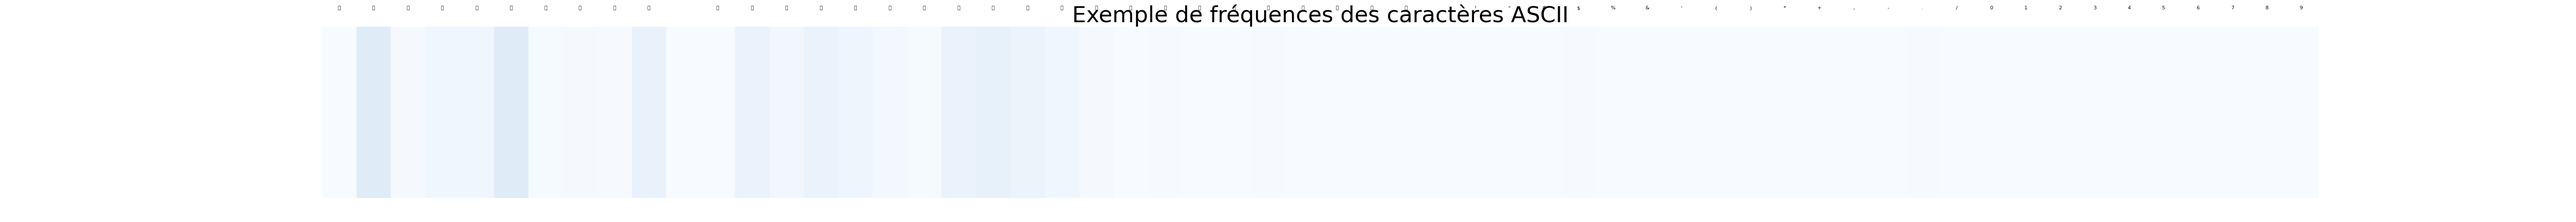
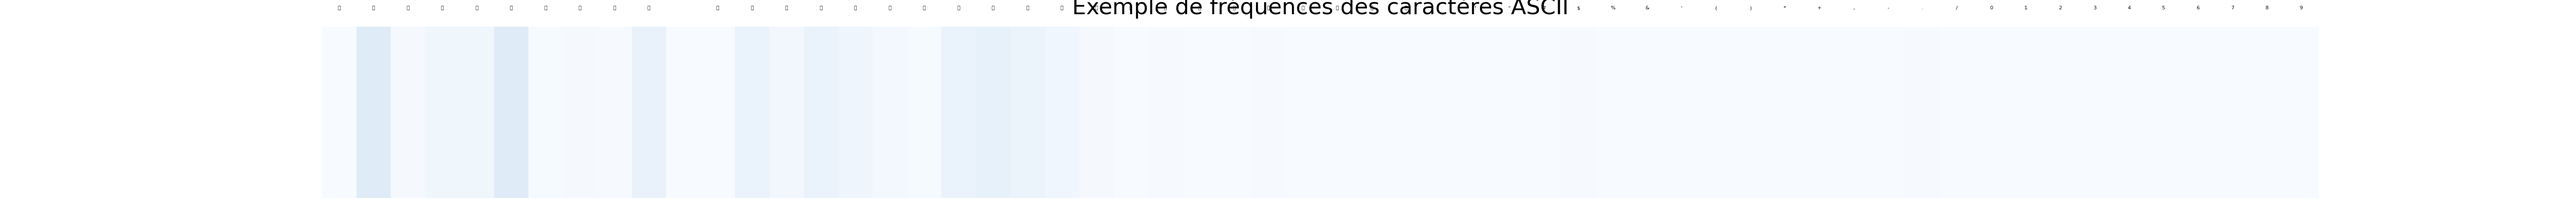
lmk

Changed region(s): [[0.4057, 0.0, 0.6241, 0.12]]

diff --git a/visualization/matrix_visualization/matrix_visualization.py b/visualization/matrix_visualization/matrix_visualization.py
@@ -3,18 +3,19 @@ import matplotlib.pyplot as plt
 
 
 def matrix_visualiation(language):
+    """Save a visualization of transition matrices"""
     matrix = np.loadtxt(f"/home/onyxia/work/projet_python_ds/training/Matrix/Matrix_{language}.txt")
     colors = np.zeros((len(matrix), len(matrix[0]), 3))
     for i in range(len(matrix)):
         for j in range(len(matrix)):
             colors[i][j] = [matrix[i][j], matrix[i][j], matrix[i][j]]
 
-    colors_hsv = np.zeros((255, 255, 3))  # Matrice pour stocker les couleurs en HSV
+    colors_hsv = np.zeros((255, 255, 3))  # Matrix to store colors in HSV (Hue, Saturation, Value).
     for i in range(255):
         for j in range(255):
-            colors_hsv[i, j, 0] = matrix[i, j]  # Teinte correspondant à la fréquence
+            colors_hsv[i, j, 0] = matrix[i, j]  # Hue corresponding to frequency
 
-    # Conversion des couleurs de l'espace HSV à RGB pour l'affichage
+    # Conversion of colors from HSV space to RGB for display
     colors_rgb = plt.get_cmap('Blues')(colors_hsv[:, :, 0])  # Utilisation uniquement de la teinte pour la colormap
 
     plt.figure(figsize=(8, 6))

diff --git a/visualization/frequency_visualization/frequency_visualisation.py b/visualization/frequency_visualization/frequency_visualisation.py
@@ -48,7 +48,7 @@ def frequency_visualization_zoom(language):
         plt.fill_between([i, i + 1], 0, 1, color=freq)
         plt.text(i + 0.5, 1.1, chr(i), ha='center', fontsize=8)
 
-    plt.title('Exemple de fréquences des caractères ASCII', fontsize=36)
+    plt.title('Exemple de fréquences des caractères ASCII', fontsize=36,  y=1.05)
     plt.xlabel('Caractères ASCII')
     plt.ylabel('Fréquence')
 

diff --git a/visualization/matrix_visualization/matrix_visualization_zoomed.py b/visualization/matrix_visualization/matrix_visualization_zoomed.py
@@ -29,4 +29,5 @@ for language in conf_training.dic_api.keys():
         plt.text(-1,ip,chr(i), horizontalalignment='center', verticalalignment='center')
         plt.text(ip,-1,chr(i), horizontalalignment='center', verticalalignment='center')
     plt.colorbar()
+    # Save the plot
     plt.savefig(f"/home/onyxia/work/projet_python_ds/visualization/matrix_visualization/Matrix_viz_{language}_zoomed.png")

diff --git a/trigramme/trigramme.py b/trigramme/trigramme.py
@@ -6,6 +6,7 @@ code_space = 0
 
 
 def code(c):
+    """Encodes the chain of character """
     if ord(c) == 32:
         enc1 = 0
     elif ord(c) <= 122 and ord(c) >= 97:
